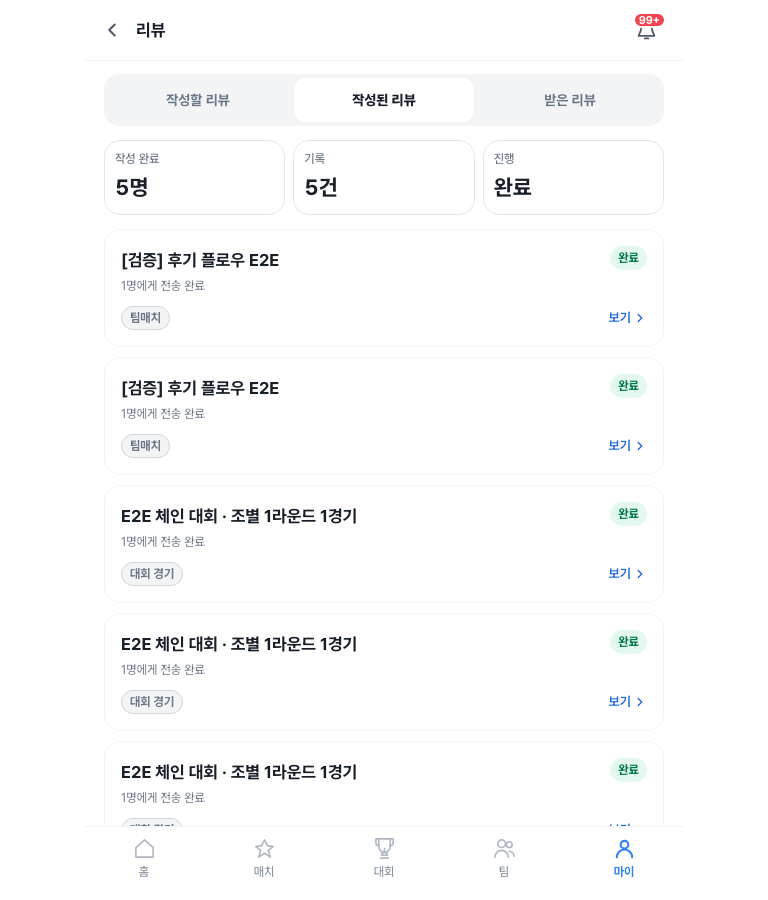
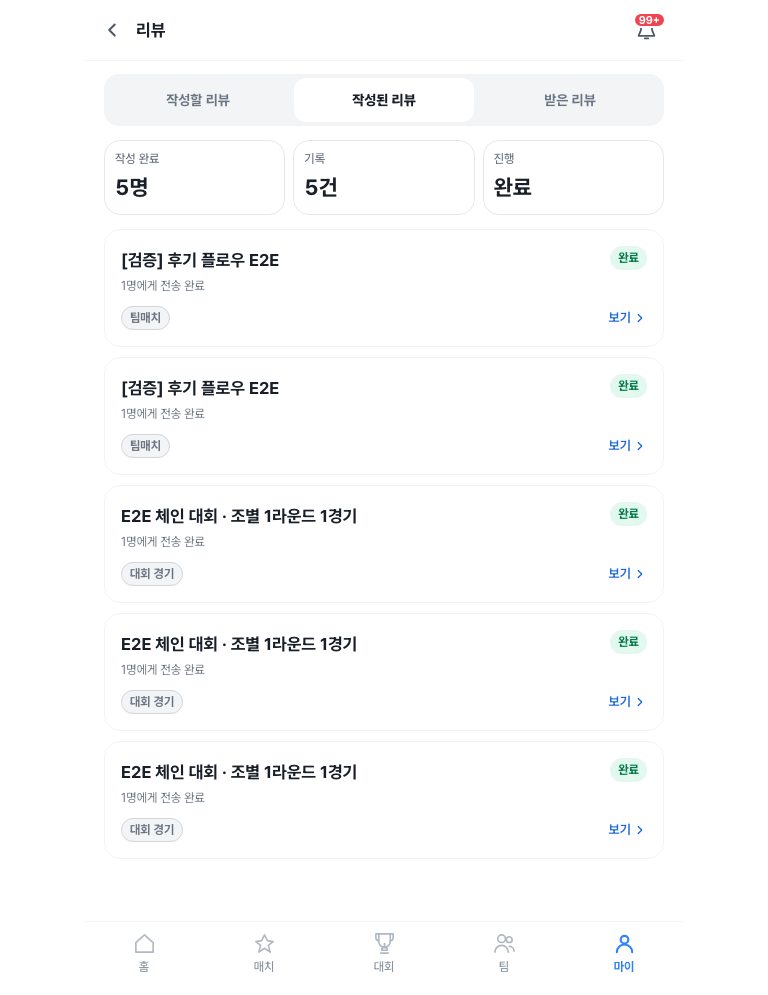
fix(scripts): 모바일·태블릿 캡처가 뷰포트 높이에서 잘리던 문제
갤러리의 390/768 컷이 전부 정확히 900px — 뷰포트 높이 그대로였다. 이 앱의 모바일
레이아웃은 문서가 아니라 내부 컨테이너가 스크롤해서 document.scrollHeight 가 뷰포트와
같고, 그래서 fullPage:true 만으로는 더 늘어나지 않는다(데스크톱만 제대로 잡혔다).

증상이 고약한 이유: 스크린샷이 "찍히긴" 해서 성공으로 보이는데 정작 검증하려던 CTA 가
접혀 나간다 — 팀매치 상세 모바일 컷에는 "후기 남기기"가 아예 안 보였다.

내부 스크롤 컨테이너까지 훑어 실제 콘텐츠 높이를 재고, 그 높이로 뷰포트를 키운 뒤
찍는다(6000px 상한). 재캡처 결과 900px 로 남은 파일 0개.

Claude-Session: https://claude.ai/code/session_013tniLjxDoB3aKrNSZ2EPX8

diff --git a/scripts/capture_alpha_review_entrypoints.js b/scripts/capture_alpha_review_entrypoints.js
@@ -121,6 +121,26 @@ async function waitForContent(page) {
       }
       await waitForContent(page);
 
+      // fullPage:true 만으로는 모바일·태블릿이 뷰포트 높이(900) 그대로 잘린다 — 이 앱의
+      // 모바일 레이아웃은 문서가 아니라 내부 컨테이너가 스크롤해서 document.scrollHeight 가
+      // 뷰포트와 같기 때문이다. 실제 콘텐츠 높이를 재서 뷰포트를 키운 뒤 찍는다.
+      const contentHeight = await page.evaluate(() => {
+        const candidates = [document.documentElement.scrollHeight, document.body.scrollHeight];
+        for (const el of document.querySelectorAll('*')) {
+          const style = getComputedStyle(el);
+          if (/(auto|scroll)/.test(style.overflowY) && el.scrollHeight > el.clientHeight) {
+            // 스크롤 컨테이너는 자기 위쪽 오프셋만큼 더해야 페이지 전체 높이가 된다.
+            candidates.push(el.scrollHeight + el.getBoundingClientRect().top + window.scrollY);
+          }
+        }
+        return Math.ceil(Math.max(...candidates));
+      });
+      const shotHeight = Math.min(Math.max(contentHeight, 900), 6000);
+      if (shotHeight > 900) {
+        await page.setViewportSize({ width, height: shotHeight });
+        await page.waitForTimeout(600);
+      }
+
       const file = path.join(OUT, `${pageName}-${widthName}-${width}.png`);
       await page.screenshot({ path: file, fullPage: true });
 
